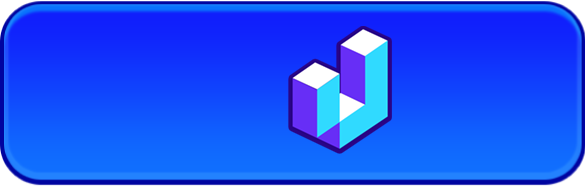
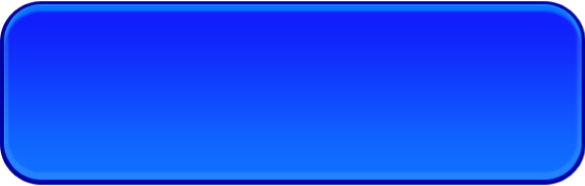
feat(DE-2): update button spin && add button to open spin popup

Changed region(s): [[0.4923, 0.1344, 0.6769, 0.8333]]

diff --git a/app/src/pages/Game/components/button/SpinButton.js b/app/src/pages/Game/components/button/SpinButton.js
@@ -5,18 +5,18 @@ class SpinButton extends Button {
   constructor(scene, { x, y, onClick, value }) {
     super(scene, x, y, 'button-spin', 'button-spin-pressed', onClick, { sound: 'button-1' });
 
-    this.spinText = scene.add
-      .text(-130, 0, 'Spin', { fontSize: '82px', fontFamily: fontFamilies.extraBold, color: '#fff' })
+    this.text = scene.add
+      .text(0, 0, `${value}`, { fontSize: '82px', fontFamily: fontFamilies.extraBold, color: '#fff' })
       .setOrigin(0.5, 0.5);
-    this.spinText.setStroke('#0004A0', 10);
+    this.text.setStroke('#0004A0', 10);
 
-    this.valueText = scene.add
-      .text(150, 0, `x${value}`, { fontSize: '82px', fontFamily: fontFamilies.extraBold, color: '#fff' })
-      .setOrigin(0.5, 0.5);
-    this.valueText.setStroke('#0004A0', 10);
+    this.icon = scene.add.image(0, 0, 'icon-coin').setOrigin(0.5, 0.5);
 
-    this.add(this.spinText);
-    this.add(this.valueText);
+    this.text.x -= this.icon.width / 2 + 5;
+    this.icon.x = this.text.x + this.text.width / 2 + this.icon.width / 2 + 10;
+
+    this.add(this.text);
+    this.add(this.icon);
   }
 }
 

diff --git a/app/src/pages/Game/scenes/LoadingScene.js b/app/src/pages/Game/scenes/LoadingScene.js
@@ -239,8 +239,7 @@ class LoadingScene extends Phaser.Scene {
     this.load.image('button-square-tiny-pressed', '/images/button-square-tiny-pressed.png');
     this.load.image('button-spin', '/images/button-spin.png');
     this.load.image('button-spin-pressed', '/images/button-spin-pressed.png');
-    this.load.image('button-square-normal', '/images/button-square-normal.png');
-    this.load.image('button-square-normal-pressed', '/images/button-square-normal-pressed.png');
+    this.load.image('spin-button', '/images/spin-button.png');
 
     this.load.image('button-buy-safehouse', '/images/button-buy-safehouse.png');
     this.load.image('button-buy-safehouse-pressed', '/images/button-buy-safehouse-pressed.png');

diff --git a/app/src/pages/Game/components/action-buttons/InfoButtons.js b/app/src/pages/Game/components/action-buttons/InfoButtons.js
@@ -66,10 +66,10 @@ class InfoButtons extends Phaser.GameObjects.Container {
 
     this.spinButton = new Button(
       scene,
-      width - px - buttonSize / 2,
-      y + 2 * verticalGap,
-      'button-square-normal',
-      'button-square-normal-pressed',
+      buttonSize / 2 + px,
+      y + 3 * verticalGap,
+      'spin-button',
+      'spin-button',
       () => {
         if (isSimulator) return;
         scene.popupDailySpin?.open();
